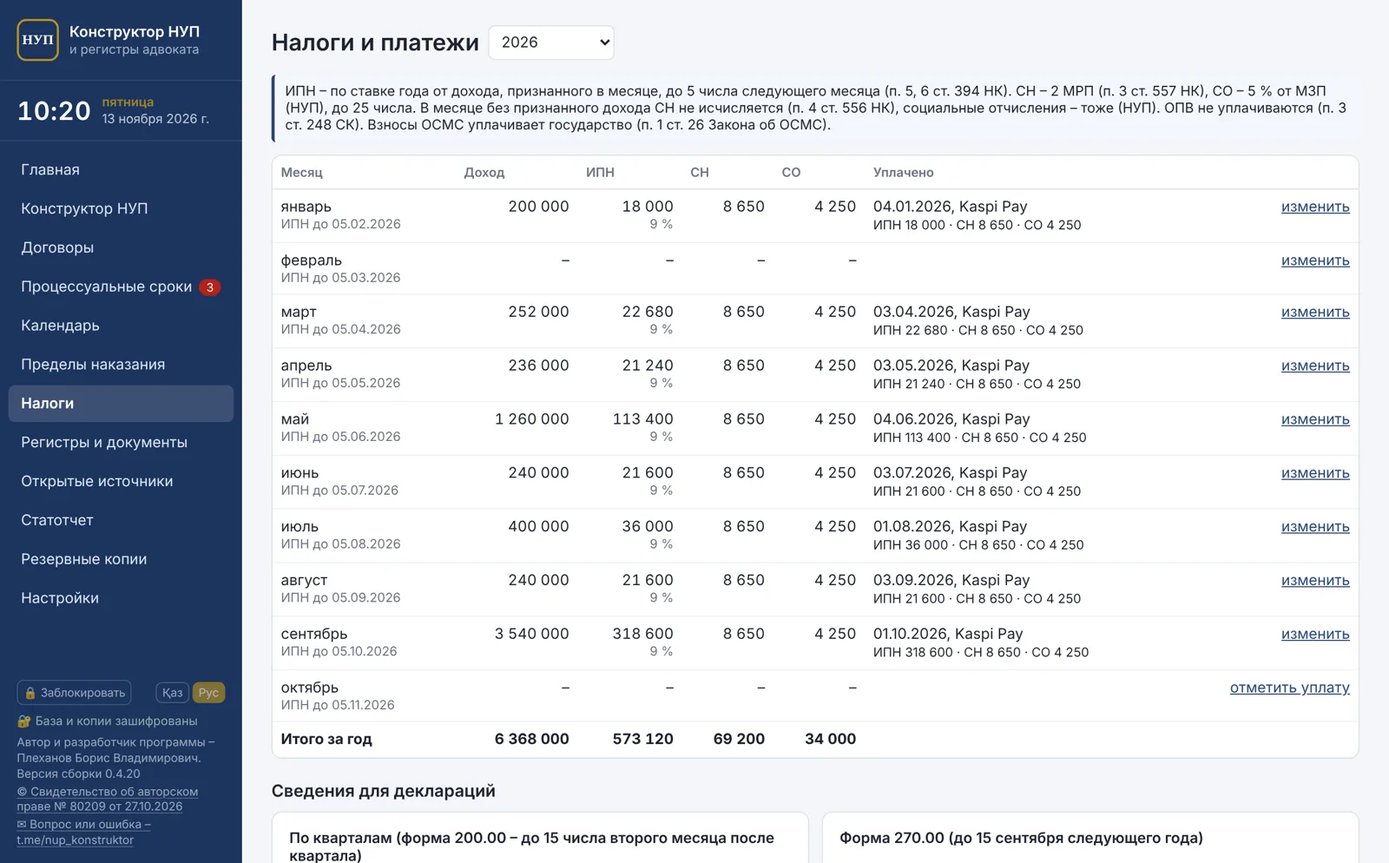
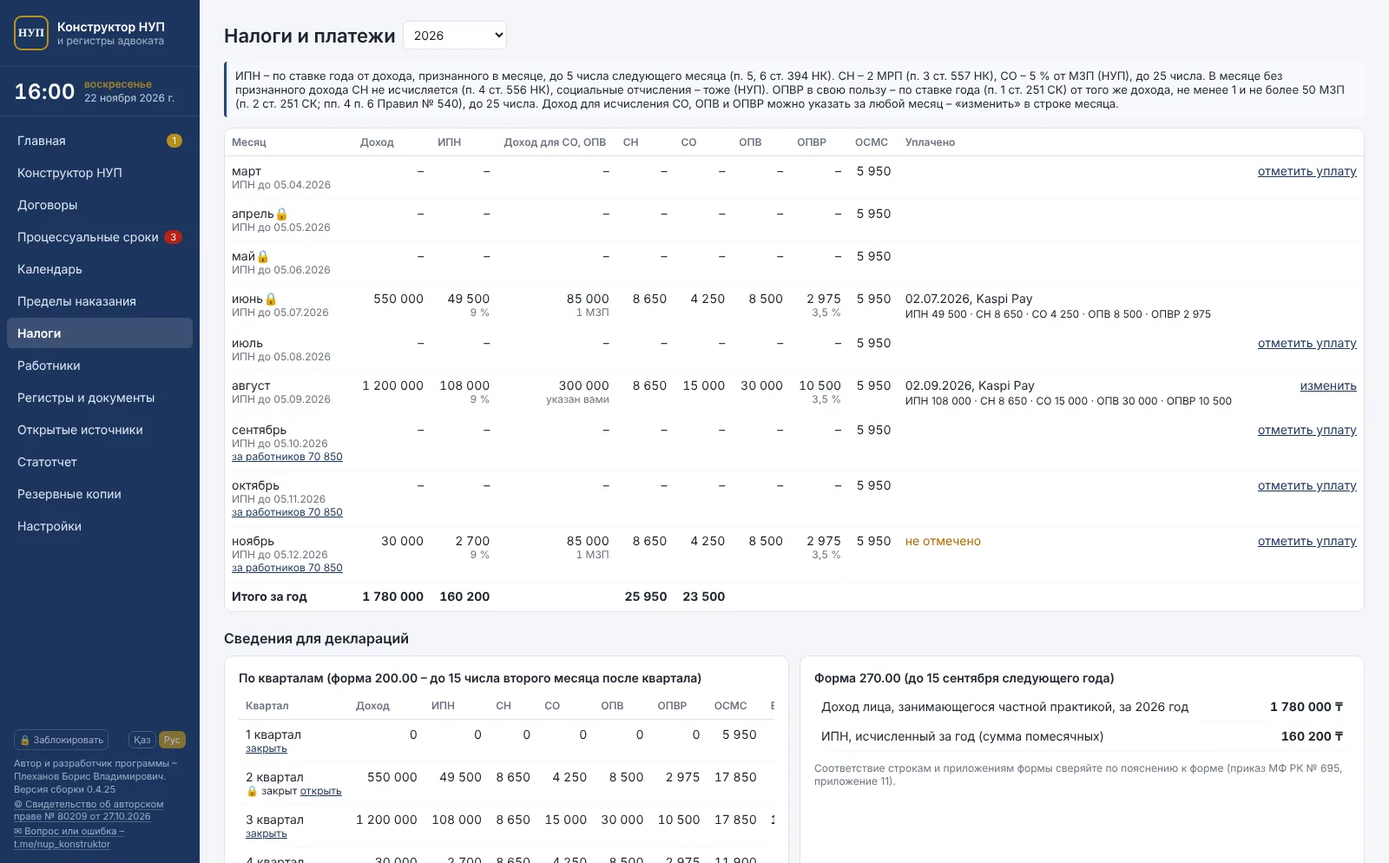
Сайт: работники, ОПВР, закрытие квартала, перенос данных, реестр уведомлений

diff --git a/index.html b/index.html
@@ -4,7 +4,7 @@
 <meta charset="utf-8">
 <meta name="viewport" content="width=device-width, initial-scale=1">
 <title>Конструктор НУП – налоговая учетная политика адвоката, реестр договоров, налоги и регистры | бесплатная программа</title>
-<meta name="description" content="Бесплатная программа для адвокатов Казахстана, занимающихся частной практикой: налоговая учетная политика (НУП) адвоката по ответам на вопросы, реестр договоров, расчет ИПН и социальных платежей, налоговые регистры, приходные ордера, процессуальные сроки, журнал открытых источников. Windows и macOS.">
+<meta name="description" content="Бесплатная программа для адвокатов Казахстана, занимающихся частной практикой: налоговая учетная политика (НУП) адвоката по ответам на вопросы, реестр договоров, расчет ИПН, социальных платежей и ОПВР, зарплата работников, налоговые регистры, реестр уведомлений, приходные ордера, процессуальные сроки, журнал открытых источников. Windows и macOS.">
 <meta name="keywords" content="НУП адвоката, налоговая учетная политика адвоката, конструктор НУП, реестр договоров адвоката, налоговый регистр адвоката, ИПН адвокат, лицо занимающееся частной практикой, процессуальные сроки, программа для адвоката Казахстан">
 <link rel="canonical" href="https://konstruktor-nup.github.io/">
 <link rel="alternate" hreflang="ru" href="https://konstruktor-nup.github.io/">
@@ -12,7 +12,7 @@
 <link rel="icon" type="image/png" href="favicon.png">
 <meta property="og:type" content="website">
 <meta property="og:title" content="Конструктор НУП и регистры адвоката">
-<meta property="og:description" content="Бесплатная программа для адвокатов Казахстана: НУП, реестр договоров, налоги, регистры, процессуальные сроки.">
+<meta property="og:description" content="Бесплатная программа для адвокатов Казахстана: НУП, реестр договоров, налоги, работники, регистры, процессуальные сроки.">
 <meta property="og:url" content="https://konstruktor-nup.github.io/">
 <meta property="og:image" content="https://konstruktor-nup.github.io/img/og.jpg">
 <meta property="og:locale" content="ru_KZ">
@@ -25,7 +25,7 @@
   "applicationCategory": "BusinessApplication",
   "operatingSystem": "Windows 10, Windows 11, macOS 12+",
   "inLanguage": ["ru", "kk"],
-  "description": "Налоговая учетная политика адвоката, реестр договоров, расчет налогов, налоговые регистры, процессуальные сроки и журнал открытых источников для адвокатов Казахстана, занимающихся частной практикой.",
+  "description": "Налоговая учетная политика адвоката, реестр договоров, расчет налогов и социальных платежей, зарплата работников, налоговые регистры, процессуальные сроки и журнал открытых источников для адвокатов Казахстана, занимающихся частной практикой.",
   "offers": { "@type": "Offer", "price": "0", "priceCurrency": "KZT" },
   "author": { "@type": "Person", "name": "Плеханов Борис Владимирович" },
   "downloadUrl": "https://github.com/Boris-not-johnson/nup-advokat-releases/releases/latest",
@@ -40,6 +40,7 @@
     { "@type": "Question", "name": "Что такое НУП адвоката?", "acceptedAnswer": { "@type": "Answer", "text": "Налоговая учетная политика (НУП) – документ, которым адвокат, занимающийся частной практикой, сам устанавливает порядок налогового учета и формы налоговых регистров. Программа составляет НУП по ответам на вопросы и ведет учет по ее правилам." } },
     { "@type": "Question", "name": "Сколько стоит программа?", "acceptedAnswer": { "@type": "Answer", "text": "Программа бесплатна. Ранее внесенные данные остаются доступными для просмотра и выгрузки при любых изменениях условий." } },
     { "@type": "Question", "name": "Где хранятся данные?", "acceptedAnswer": { "@type": "Answer", "text": "Только на компьютере адвоката. Базу и резервные копии можно зашифровать, вход – по паролю или Touch ID." } },
+    { "@type": "Question", "name": "Как перенести данные на новый компьютер?", "acceptedAnswer": { "@type": "Answer", "text": "Учетной записи в программе нет, данные хранятся на компьютере. На старом компьютере создайте резервную копию и перенесите файл NUP_Backup_… на флешке или через облако, на новом – «Резервные копии» → «Восстановить из файла…»." } },
     { "@type": "Question", "name": "На каких компьютерах работает?", "acceptedAnswer": { "@type": "Answer", "text": "Windows 10 и 11 (64-бит), macOS 12 и новее на Apple M1–M4 и Intel." } }
   ]
 }
@@ -102,7 +103,7 @@ footer a { color:#DCE4F2; }
   </div>
   <div class="wrap hero">
     <h1>Конструктор НУП и регистры адвоката</h1>
-    <p>Бесплатная программа для адвокатов Казахстана, занимающихся частной практикой: налоговая учетная политика (НУП), реестр договоров, налоги, налоговые регистры, процессуальные сроки и журнал сведений из открытых источников.</p>
+    <p>Бесплатная программа для адвокатов Казахстана, занимающихся частной практикой: налоговая учетная политика (НУП), реестр договоров, налоги и социальные платежи, зарплата работников, налоговые регистры, процессуальные сроки и журнал сведений из открытых источников.</p>
     <div class="btns">
       <a class="btn gold" href="https://github.com/Boris-not-johnson/nup-advokat-releases/releases/latest/download/Konstruktor-NUP-Windows-setup.exe">Скачать для Windows</a>
       <a class="btn gold" href="https://github.com/Boris-not-johnson/nup-advokat-releases/releases/latest/download/Konstruktor-NUP-macOS.zip">Скачать для macOS</a>
@@ -118,11 +119,12 @@ footer a { color:#DCE4F2; }
     <p class="sub">Адвокат, занимающийся частной практикой, сам устанавливает порядок налогового учета и формы налоговых регистров в налоговой учетной политике. Программа составит НУП по ответам на вопросы и будет вести учет по ее правилам. Подробнее – в статье <a href="nup-advokata.html">«Налоговая учетная политика адвоката: что в ней должно быть»</a>.</p>
     <div class="grid">
       <div class="card"><h3>НУП по ответам на вопросы</h3><p>Налоговая учетная политика адвоката по ответам на вопросы – готовый документ Word с приложениями, редакции при изменениях.</p></div>
-      <div class="card"><h3>Договоры и доходы</h3><p>Реестр договоров, поступления, уведомления, признание дохода, акты и приходные ордера.</p></div>
-      <div class="card"><h3>Налоги</h3><p>Помесячный расчет ИПН и социальных платежей, отметки об уплате, сведения для деклараций.</p></div>
+      <div class="card"><h3>Договоры и доходы</h3><p>Реестр договоров, поступления, реестр уведомлений, признание дохода, акты (в том числе помесячные по абонентскому обслуживанию) и приходные ордера.</p></div>
+      <div class="card"><h3>Налоги</h3><p>Помесячный расчет ИПН, социального налога, СО, ОПВ, ОПВР и ОСМС, доход для исчисления за каждый месяц, отметки об уплате, сведения для деклараций, закрытие квартала.</p></div>
+      <div class="card"><h3>Работники</h3><p>Зарплата помощника или секретаря: удержания, платежи работодателя, сумма к выплате, расчетный листок.</p></div>
       <div class="card"><h3>Процессуальные сроки</h3><p>Уголовные, гражданские и административные дела: расследование, стража, суд, обжалование, давность по КоАП.</p></div>
       <div class="card"><h3>Открытые источники</h3><p>Справочник реестров и журнал находок с цифровым отпечатком SHA-256 для приобщения к делу.</p></div>
-      <div class="card"><h3>Данные у вас</h3><p>Все хранится только на вашем компьютере. Шифрование базы и копий, вход по паролю или Touch ID.</p></div>
+      <div class="card"><h3>Данные у вас</h3><p>Все хранится только на вашем компьютере. Шифрование базы и копий, вход по паролю или Touch ID, перенос на новый компьютер из резервной копии.</p></div>
     </div>
   </div>
 </section>
@@ -134,9 +136,11 @@ footer a { color:#DCE4F2; }
 
     <div class="feat"><div class="txt"><h3>Конструктор налоговой учетной политики</h3><p>Ответьте на вопросы шаг за шагом: реквизиты, практика, признание дохода, социальные платежи. Программа составит НУП в Word и будет вести расчеты по ее правилам. Уже есть утвержденная НУП – внесите ее условия.</p></div><img src="img/nup.webp" alt="Конструктор НУП: реквизиты адвоката и шаги составления налоговой учетной политики" loading="lazy" width="1600" height="994"></div>
 
-    <div class="feat"><div class="txt"><h3>Реестр договоров</h3><ul><li>поступления, уведомления, признание дохода по правилам вашей НУП;</li><li>несколько направлений по одному договору;</li><li>приходный ордер при оплате наличными и журнал ордеров;</li><li>реестр договоров и налоговый регистр в Word.</li></ul></div><img src="img/contracts.webp" alt="Реестр договоров адвоката: гонорар, получено, дата признания дохода" loading="lazy" width="1600" height="994"></div>
+    <div class="feat"><div class="txt"><h3>Реестр договоров</h3><ul><li>поступления, уведомления, признание дохода по правилам вашей НУП;</li><li>несколько направлений по одному договору;</li><li>абонентское обслуживание: акт за каждый месяц в Word;</li><li>приходный ордер при оплате наличными и журнал ордеров;</li><li>реестр договоров, реестр уведомлений и налоговый регистр в Word.</li></ul></div><img src="img/contracts.webp" alt="Реестр договоров адвоката: гонорар, получено, дата признания дохода" loading="lazy" width="1600" height="994"></div>
 
-    <div class="feat"><div class="txt"><h3>Налоги и платежи</h3><p>ИПН по ставке года от дохода, признанного в месяце, социальный налог, социальные отчисления – помесячно, со сроками уплаты и сведениями для деклараций.</p></div><img src="img/taxes.webp" alt="Расчет ИПН и социальных платежей адвоката по месяцам" loading="lazy" width="1600" height="994"></div>
+    <div class="feat"><div class="txt"><h3>Налоги и платежи</h3><p>ИПН по ставке года от дохода, признанного в месяце, социальный налог, социальные отчисления, ОПВ, ОПВР и взносы на ОСМС – помесячно, с учетом социального статуса, со сроками уплаты и сведениями для деклараций 200.00 и 270.00. Доход для исчисления СО, ОПВ и ОПВР можно указать за каждый месяц. После сдачи декларации квартал закрывается от случайных правок.</p></div><img src="img/taxes.webp" alt="Расчет ИПН, социальных платежей и ОПВР адвоката по месяцам" loading="lazy" width="1600" height="994"></div>
+
+    <div class="feat"><div class="txt"><h3>Работники</h3><p>Помощник, стажер или секретарь по трудовому договору: начисление зарплаты, удержания (ОПВ, взносы на ОСМС, ИПН с вычетами), платежи работодателя (СО, ОПВР, отчисления на ОСМС, социальный налог), сумма к выплате, сроки уплаты и расчетный листок в Word.</p></div><img src="img/staff.webp" alt="Зарплата помощника адвоката: удержания и платежи работодателя" loading="lazy" width="1600" height="994"></div>
 
     <div class="feat"><div class="txt"><h3>Процессуальные сроки и календарь</h3><p>Сроки расследования, задержания, стражи и домашнего ареста, судебных стадий и обжалования. Просроченные и срочные – на главном экране, выгрузка в календарь телефона.</p></div><img src="img/crim.webp" alt="Процессуальные сроки по уголовным делам с отметками о нарушениях" loading="lazy" width="1600" height="994"></div>
 
@@ -162,6 +166,8 @@ footer a { color:#DCE4F2; }
     <details><summary>Что такое НУП адвоката?</summary><p>Налоговая учетная политика – документ, которым адвокат, занимающийся частной практикой, сам устанавливает порядок налогового учета и формы налоговых регистров. Программа составляет НУП по ответам на вопросы и ведет учет по ее правилам. Подробнее – в статье <a href="nup-advokata.html">«Налоговая учетная политика адвоката: что в ней должно быть»</a>.</p></details>
     <details><summary>Сколько стоит программа?</summary><p>Программа бесплатна. Если отдельные модули в будущем станут платными, об этом будет объявлено заранее, с пробным периодом; ранее внесенные данные останутся доступными для просмотра и выгрузки.</p></details>
     <details><summary>Где хранятся мои данные?</summary><p>Только на вашем компьютере. Программа не отправляет данные доверителей в интернет. Базу и резервные копии можно зашифровать, вход – по паролю или Touch ID.</p></details>
+    <details><summary>Сменил компьютер: как перенести данные?</summary><p>Учетной записи и входа в программе нет – данные хранятся на компьютере, поэтому новая установка открывается пустой. На старом компьютере обновите программу до последней версии, откройте «Резервные копии» → «Создать копию сейчас» → «в папке» и скопируйте файл NUP_Backup_… на флешку или в облако (если пользовались «Открытыми источниками», рядом лежит папка osint_files – перенесите и ее). На новом компьютере установите программу, примите соглашения и на главной нажмите «Перенести данные из резервной копии» (или «Резервные копии» → «Восстановить из файла…»). Зашифрованная копия открывается кодом восстановления. Пароль или Touch ID на новом компьютере настройте заново.</p></details>
+    <details><summary>Можно ли вести зарплату помощника?</summary><p>Да, с версии 0.4.25: раздел «Работники». Программа считает удержания (ОПВ, взносы на ОСМС, ИПН с вычетами), платежи работодателя (СО, ОПВР, отчисления на ОСМС, социальный налог), сумму к выплате и суммы для декларации 200.00, формирует расчетный листок.</p></details>
     <details><summary>Можно ли сначала посмотреть, как все работает?</summary><p>Да: «Настройки» → «Открыть демонстрационную базу». В ней вымышленные договоры, налоги и дела; ваша база в это время не открывается.</p></details>
     <details><summary>Edge или Windows не дают скачать или запустить установщик</summary><p>Программу пока скачивают редко, поэтому Windows и браузер Edge предупреждают об этом. В Edge откройте загрузки (Ctrl+J), нажмите «…» у строки «Konstruktor-NUP-Windows-setup.exe скачивается редко» → «Сохранить» → «Показать больше» → «Все равно сохранить». При запуске в окне «Система Windows защитила ваш компьютер» нажмите «Подробнее» → «Выполнить в любом случае». Можно также скачать установщик через Chrome или Firefox.</p></details>
     <details><summary>Расчеты можно использовать без проверки?</summary><p>Нет. Расчеты и тексты документов носят вспомогательный характер: проверяйте их по действующему законодательству и материалам дела.</p></details>

diff --git a/kk.html b/kk.html
@@ -11,7 +11,7 @@
 <link rel="icon" type="image/png" href="favicon.png">
 <meta property="og:type" content="website">
 <meta property="og:title" content="СЕС конструкторы және адвокат тізілімдері">
-<meta property="og:description" content="Қазақстан адвокаттарына арналған тегін бағдарлама: СЕС, шарттар тізілімі, салықтар, тізілімдер, іс жүргізу мерзімдері.">
+<meta property="og:description" content="Қазақстан адвокаттарына арналған тегін бағдарлама: СЕС, шарттар тізілімі, салықтар, қызметкерлер, тізілімдер, іс жүргізу мерзімдері.">
 <meta property="og:url" content="https://konstruktor-nup.github.io/kk.html">
 <meta property="og:image" content="https://konstruktor-nup.github.io/img/og.jpg">
 <style>
@@ -60,7 +60,7 @@ footer a { color:#DCE4F2; }
   </div>
   <div class="wrap hero">
     <h1>СЕС конструкторы және адвокат тізілімдері</h1>
-    <p>Қазақстан Республикасының жеке практикамен айналысатын адвокаттарына арналған тегін бағдарлама: салықтық есеп саясаты, шарттар мен кірістерді есепке алу, салықтар, тізілімдер, іс жүргізу мерзімдері, күнтізбе.</p>
+    <p>Қазақстан Республикасының жеке практикамен айналысатын адвокаттарына арналған тегін бағдарлама: салықтық есеп саясаты, шарттар мен кірістерді есепке алу, салықтар мен әлеуметтік төлемдер, қызметкерлердің жалақысы, тізілімдер, іс жүргізу мерзімдері, күнтізбе.</p>
     <div class="btns">
       <a class="btn gold" href="https://github.com/Boris-not-johnson/nup-advokat-releases/releases/latest/download/Konstruktor-NUP-Windows-setup.exe">Windows үшін жүктеу</a>
       <a class="btn gold" href="https://github.com/Boris-not-johnson/nup-advokat-releases/releases/latest/download/Konstruktor-NUP-macOS.zip">macOS үшін жүктеу</a>
@@ -75,11 +75,12 @@ footer a { color:#DCE4F2; }
     <h2>Бағдарлама мүмкіндіктері</h2>
     <div class="grid">
       <div class="card"><h3>СЕС конструкторы</h3><p>Сұрақтарға жауап бойынша адвокаттың салықтық есеп саясаты, Word құжаты, редакциялар.</p></div>
-      <div class="card"><h3>Шарттар</h3><p>Шарттар тізілімі, түсімдер, хабарламалар, кірісті тану; сенім білдірушінің телефоны, поштасы және өкілдері.</p></div>
-      <div class="card"><h3>Салықтар</h3><p>ЖТС және әлеуметтік төлемдерді ай сайын есептеу, төлем белгілері, салық күнтізбесі.</p></div>
+      <div class="card"><h3>Шарттар</h3><p>Шарттар тізілімі, түсімдер, хабарламалар тізілімі, кірісті тану, абоненттік қызмет көрсету бойынша ай сайынғы актілер; сенім білдірушінің телефоны, поштасы және өкілдері.</p></div>
+      <div class="card"><h3>Салықтар</h3><p>ЖТС, әлеуметтік салықты, ӘА, МЗЖ, ЖМЗЖ және МӘМС жарналарын ай сайын есептеу, әр айға есептеу табысын көрсету, төлем белгілері, салық күнтізбесі, декларация тапсырылғаннан кейін тоқсанды жабу.</p></div>
+      <div class="card"><h3>Қызметкерлер</h3><p>Көмекшінің немесе хатшының жалақысы: ұсталатын сомалар, жұмыс берушінің төлемдері, төленетін сома, есеп парағы.</p></div>
       <div class="card"><h3>Тізілімдер және құжаттар</h3><p>Word форматындағы тізілімдер мен актілер; статистикалық есеп.</p></div>
       <div class="card"><h3>Іс жүргізу мерзімдері</h3><p>Қылмыстық істер бойынша мерзімдер; телефон күнтізбесіне жүктеу.</p></div>
-      <div class="card"><h3>Қауіпсіздік</h3><p>Барлық деректер тек сіздің компьютеріңізде сақталады; базаны және сақтық көшірмелерді шифрлау.</p></div>
+      <div class="card"><h3>Қауіпсіздік</h3><p>Барлық деректер тек сіздің компьютеріңізде сақталады; базаны және сақтық көшірмелерді шифрлау; сақтық көшірмеден жаңа компьютерге көшіру.</p></div>
     </div>
     <img class="shot" src="img/home.webp" alt="Бағдарламаның басты экраны (ойдан шығарылған деректер)" loading="lazy" width="1600" height="994">
   </div>
